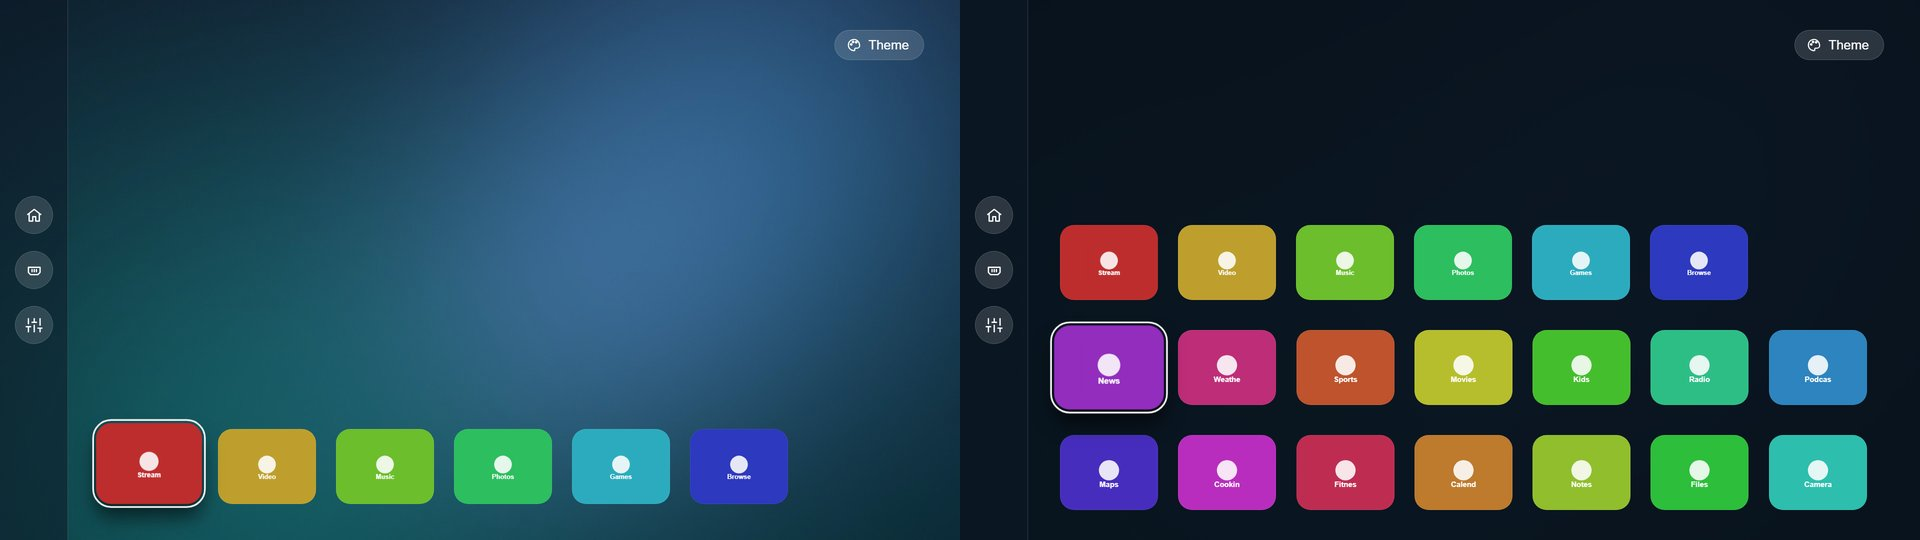
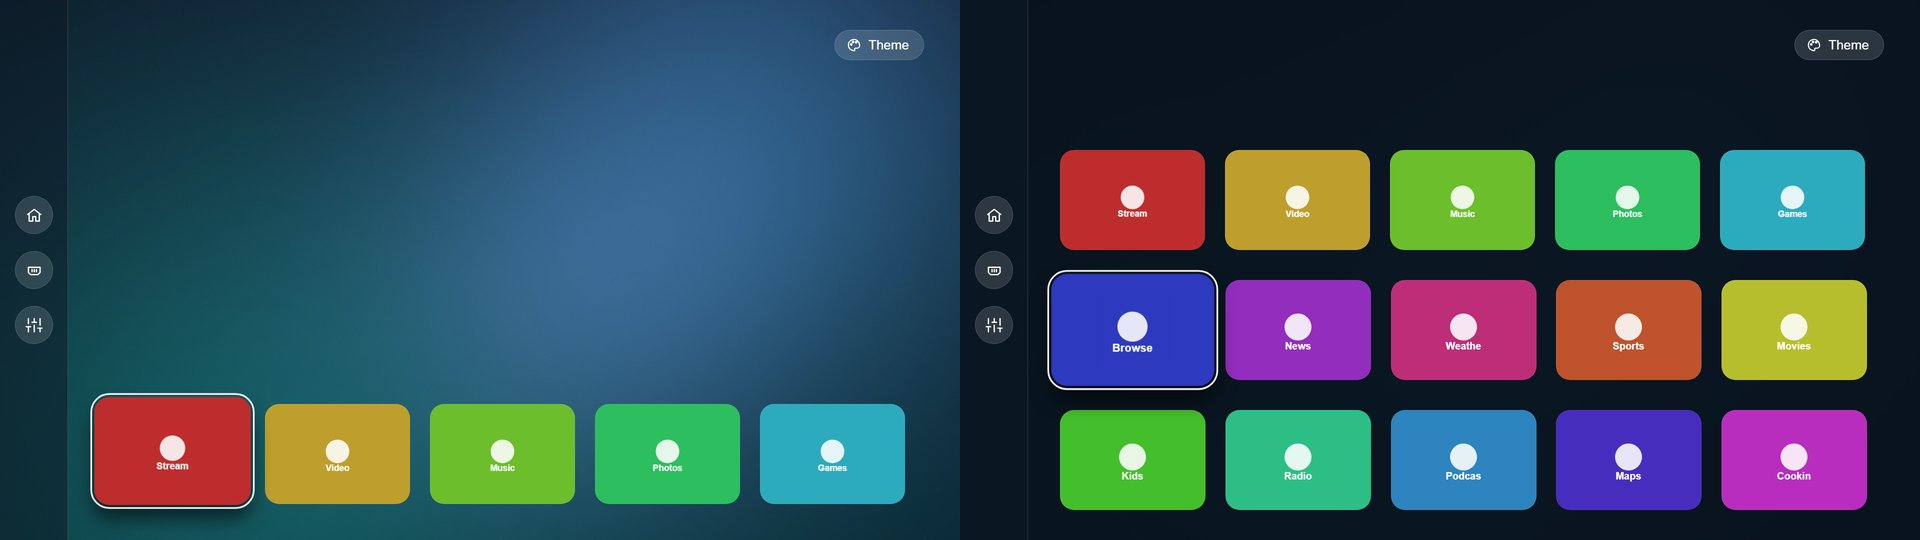
The dock, until it is changed, holds the streaming apps on the TV (Netflix, YouTube, Disney+, Max, Prime Video, SkyShowtime, Apple TV, Pickbox, HRTi, RTL Play, MAXtv, Voyo, Plex, in that order; not YouTube Kids, YouTube Music or Live TV); everything else stays in the grid below. Sidebar: five larger

diff --git a/tools/test/pages.test.js b/tools/test/pages.test.js
@@ -232,6 +232,33 @@ run(async () => {
   press(461);
   ok(ps.ri === -1 && ps.focused() === ps.rows[2][0], 'Back on the strip goes back to the apps');
 
+  // the dock until it is changed: the streaming apps on this TV in a fixed order, as many as the theme holds; the rest go to the grid
+  const dsb = vm.createContext({ cfg: {}, TH: { dockN: 7 }, apps: [] });
+  vm.runInContext(fs.readFileSync(path.join(root, 'app', 'src', 'js', 'core.js'), 'utf8'), dsb);
+  vm.runInContext(fs.readFileSync(path.join(root, 'app', 'src', 'js', 'config.js'), 'utf8'), dsb);
+  dsb.apps = [
+    ['com.webos.app.browser', 'Web Browser'],
+    ['amazon', 'Prime Video'],
+    ['youtube.leanback.kids.v4', 'YouTube Kids'],
+    ['com.hbo.hbomax', 'HBO Max'],
+    ['youtube.leanback.v4', 'YouTube'],
+    ['spotify-beehive', 'Spotify - Music and Podcasts'],
+    ['netflix', 'Netflix'],
+    ['com.disney.disneyplus-prod', 'Disney+'],
+    ['__live', 'Live TV'],
+  ].map(x => ({ id: x[0], title: x[1] }));
+  const auto = JSON.stringify(dsb.dockIds());
+  dsb.cfg = { dock: ['spotify-beehive', 'netflix'] };
+  const mine = JSON.stringify(dsb.dockIds());
+  dsb.cfg = { hidden: ['netflix'] };
+  const hid = JSON.stringify(dsb.dockIds());
+  ok(
+    auto === '["netflix","youtube.leanback.v4","com.disney.disneyplus-prod","com.hbo.hbomax","amazon"]' &&
+      mine === '["spotify-beehive","netflix"]' &&
+      hid === '["youtube.leanback.v4","com.disney.disneyplus-prod","com.hbo.hbomax","amazon"]',
+    'the dock starts with the streaming apps on the TV (Netflix, YouTube, Disney+, Max, Prime Video, ...; not YouTube Kids or Live TV); a dock you set wins, a hidden app is left out'
+  );
+
   // trailers: the focus resting on a dock app asks the service and plays one; moving on or opening anything removes the player
   const tcalls = [],
     tels = {},

diff --git a/app/index.html b/app/index.html
@@ -1246,6 +1246,22 @@ var DEFAULTS = {
     { label: 'Settings', icon: 'settings', app: 'com.palm.app.settings' },
   ],
 };
+/* streaming apps by their title, in the order they fill the dock before you change it (Live TV and other apps go to the grid) */
+var STREAMING = [
+  /^netflix/i,
+  /^youtube(?!.*(kids|music))/i,
+  /disney/i,
+  /^(hbo\s*)?max$|hbo/i,
+  /prime video|^amazon/i,
+  /skyshowtime/i,
+  /apple\s*tv/i,
+  /pickbox/i,
+  /^hrti/i,
+  /rtl\s*(play|\+)/i,
+  /maxtv/i,
+  /voyo/i,
+  /^plex/i,
+];
 var PRESETS = [
   { label: 'Inputs', icon: 'inputs', action: 'inputs' },
   { label: 'Settings', icon: 'settings', app: 'com.palm.app.settings' },
@@ -2422,12 +2438,23 @@ function saveCfg() {
 function isHidden(id) {
   return (cfg.hidden || []).indexOf(id) >= 0;
 }
+/* the dock until you change it: the streaming apps on this TV, in the order of STREAMING, as many as the theme's dock holds */
+function streamingIds() {
+  var out = [];
+  STREAMING.forEach(function (re) {
+    apps.forEach(function (a) {
+      if (a.id !== '__live' && re.test(a.title) && out.indexOf(a.id) < 0) out.push(a.id);
+    });
+  });
+  return out;
+}
 function dockIds() {
   var by = {};
   apps.forEach(function (a) {
     by[a.id] = a;
   });
-  var ids = cfg.dock && cfg.dock.length ? cfg.dock : DEFAULTS.dock;
+  var ids = cfg.dock && cfg.dock.length ? cfg.dock : streamingIds();
+  if (!ids.length) ids = DEFAULTS.dock;
   return ids
     .filter(function (i) {
       return by[i] && !isHidden(i);

diff --git a/app/src/js/config.js b/app/src/js/config.js
@@ -9,12 +9,23 @@ function saveCfg() {
 function isHidden(id) {
   return (cfg.hidden || []).indexOf(id) >= 0;
 }
+/* the dock until you change it: the streaming apps on this TV, in the order of STREAMING, as many as the theme's dock holds */
+function streamingIds() {
+  var out = [];
+  STREAMING.forEach(function (re) {
+    apps.forEach(function (a) {
+      if (a.id !== '__live' && re.test(a.title) && out.indexOf(a.id) < 0) out.push(a.id);
+    });
+  });
+  return out;
+}
 function dockIds() {
   var by = {};
   apps.forEach(function (a) {
     by[a.id] = a;
   });
-  var ids = cfg.dock && cfg.dock.length ? cfg.dock : DEFAULTS.dock;
+  var ids = cfg.dock && cfg.dock.length ? cfg.dock : streamingIds();
+  if (!ids.length) ids = DEFAULTS.dock;
   return ids
     .filter(function (i) {
       return by[i] && !isHidden(i);

diff --git a/app/src/js/core.js b/app/src/js/core.js
@@ -9,6 +9,22 @@ var DEFAULTS = {
     { label: 'Settings', icon: 'settings', app: 'com.palm.app.settings' },
   ],
 };
+/* streaming apps by their title, in the order they fill the dock before you change it (Live TV and other apps go to the grid) */
+var STREAMING = [
+  /^netflix/i,
+  /^youtube(?!.*(kids|music))/i,
+  /disney/i,
+  /^(hbo\s*)?max$|hbo/i,
+  /prime video|^amazon/i,
+  /skyshowtime/i,
+  /apple\s*tv/i,
+  /pickbox/i,
+  /^hrti/i,
+  /rtl\s*(play|\+)/i,
+  /maxtv/i,
+  /voyo/i,
+  /^plex/i,
+];
 var PRESETS = [
   { label: 'Inputs', icon: 'inputs', action: 'inputs' },
   { label: 'Settings', icon: 'settings', app: 'com.palm.app.settings' },

diff --git a/razgovori/2026-10-28-trejleri.md b/razgovori/2026-10-28-trejleri.md
@@ -80,3 +80,27 @@ s lažnim API-jem). Pokreće se s `node --experimental-websocket demo.mjs sideba
 - Nakon rootanja i instalacije: manager → **Trailers** → TMDB key s mobitela, pa isprobati na TV-u. Pogledati glatkoću i otvara li se
   Netflix normalno nakon trejlera.
 - Ponuđeno, nije napravljeno: preporuke prema gledanom (Netflixova datoteka ili omiljeni naslovi) i prava hrvatska Netflix Top 10 lista.
+
+## 7. Nastavak: prvi red, veće pločice, tipke na daljinskom, brzina
+
+1. **"U glavnom popisu neka budu streaming aplikacije (Netflix, Disney+, YouTube, HBO...), a dolje sve aplikacije s TV-a."**
+   - Dock se više ne puni fiksnim popisom (`DEFAULTS.dock`). Dok ga korisnik ne promijeni, launcher po imenu traži instalirane
+     streaming aplikacije ovim redom: Netflix, YouTube, Disney+, HBO Max, Prime Video, SkyShowtime, Apple TV, Pickbox, HRTi, RTL Play,
+     MAXtv, Voyo, Plex (`STREAMING` u `app/src/js/core.js`, `streamingIds()` u `app/src/js/config.js`).
+   - YouTube Kids, YouTube Music i Live TV ne idu u dock. Ako nijedna streaming aplikacija nije instalirana, ostaje stari popis.
+   - Ispod docka su sve ostale aplikacije, kao i prije. Dock koji korisnik sam postavi (držanje OK) ima prednost.
+   - Test u `tools/test/pages.test.js`; `docs/launcher.md` je ažuriran.
+2. **"Povećaj malo te kvadrate i neka ih bude manje."** U temi Sidebar je 5 pločica od 290 × 200 (prije 7 od 196 × 150), i u docku i
+   u mreži (`grid.cols` 5, `tileH` 200). `dockUp` je 300, pa se i dalje vide točno dva reda više. Osvježeni su `preview.jpg`,
+   `docs/screenshots/themes-5.jpg` i `KONTEKST.md`.
+3. **"Hoće li raditi tipke na daljinskom za Netflix i to?"** Trebale bi: te tipke obrađuje sam TV i izravno pokreće aplikaciju.
+   CleanYourTV preuzima samo tipku Input i, ako ih korisnik nauči u manageru, tipke Home, glas i Vodič; debloat ih ne dira. Na TV-u
+   nije provjereno.
+4. **"Hoće li CleanYourTV ubrzati moj TV?"** Djelomično:
+   - početni zaslon je brži i lakši (bez LG-ovih reklama i preporuka), a debloat gasi usluge za reklame i praćenje;
+   - aplikacije, procesor i memorija TV-a ostaju isti, a vlastiti servis CleanYourTV-a troši malo memorije;
+   - na hladnom paljenju neki TV-i nakratko pokažu LG-ov Home (pomaže Quick Start+);
+   - trejleri opterećuju stariji TV.
+
+   Mjerenje nakon rootanja: `tools/perf-tv.sh` (samo čita).
+5. Korisnik: "pushaj na git ove UI promjene".

diff --git a/docs/launcher.md b/docs/launcher.md
@@ -7,7 +7,9 @@ same on every supported webOS version.
 
 ## The screen
 
-- **Dock.** Up to four apps, large, on the first row.
+- **Dock.** The first row, large. Until you change it, it holds the streaming apps on your TV (Netflix, YouTube, Disney+, Max,
+  Prime Video, SkyShowtime, Apple TV, Pickbox, HRTi, RTL Play, MAXtv, Voyo, Plex, in that order), as many as the theme's dock holds
+  (four in Classic, five in Sidebar).
 - **Top shelf.** The name of the focused app and an ambient glow taken from its icon.
 - **Grid.** All other apps, sorted by how often you use each one (or A to Z).
 - **Top buttons.** Inputs, Live TV, Settings and Customise, and a clock. The buttons you see are yours to change.
@@ -58,7 +60,7 @@ A theme can put the buttons in a **strip along the left edge** instead (`rail.sh
 first app, the grid closed), then your top buttons as round icons, without Live TV, which is a tile among the apps. The top bar then
 has only a **Theme** button: it lists the themes, as manager app > Theme does, and **Customise** is its last row.
 
-The dock holds up to four apps. Hold OK on an app and choose **Add to dock**, **Move left**, **Move right** or **Remove from dock**.
+The dock holds four apps, or as many as the theme sets (`dock.count`). Hold OK on an app and choose **Add to dock**, **Move left**, **Move right** or **Remove from dock**.
 
 ## Trailers
 
@@ -108,7 +110,7 @@ Settings are stored on the TV in `/media/developer/cleanyourtv/config.json`:
 
 | Key | Meaning |
 |---|---|
-| `dock` | App ids in the dock (up to four). |
+| `dock` | App ids in the dock (up to the theme's `dock.count`). Missing: the streaming apps on the TV. |
 | `topbar` | The buttons at the top. |
 | `hidden` | App ids you hid. |
 | `sort` | `usage` or `alpha`. |

diff --git a/KONTEKST.md b/KONTEKST.md
@@ -89,7 +89,7 @@ Radi se na računalu, a TV služi za konačnu provjeru.
 | Warm | Smeđa i jantarna |
 | Bloom | Cvjetna pozadina, traka u staklenom panelu dolje |
 | Horizon | Krajolik u sumrak, 7 aplikacija dolje, sat gore lijevo |
-| **Sidebar** (naša) | Traka lijevo (kućica, HDMI ulazi, postavke), gore desno samo gumb *Tema*, jedan red od 7 aplikacija dolje; strelica dolje pokaže još dva reda |
+| **Sidebar** (naša) | Traka lijevo (kućica, HDMI ulazi, postavke), gore desno samo gumb *Tema*, jedan red od 5 većih aplikacija dolje (prvo streaming aplikacije s TV-a); strelica dolje pokaže još dva reda |
 
 Slike: `docs/screenshots/themes-1.jpg` do `themes-5.jpg`.
 
